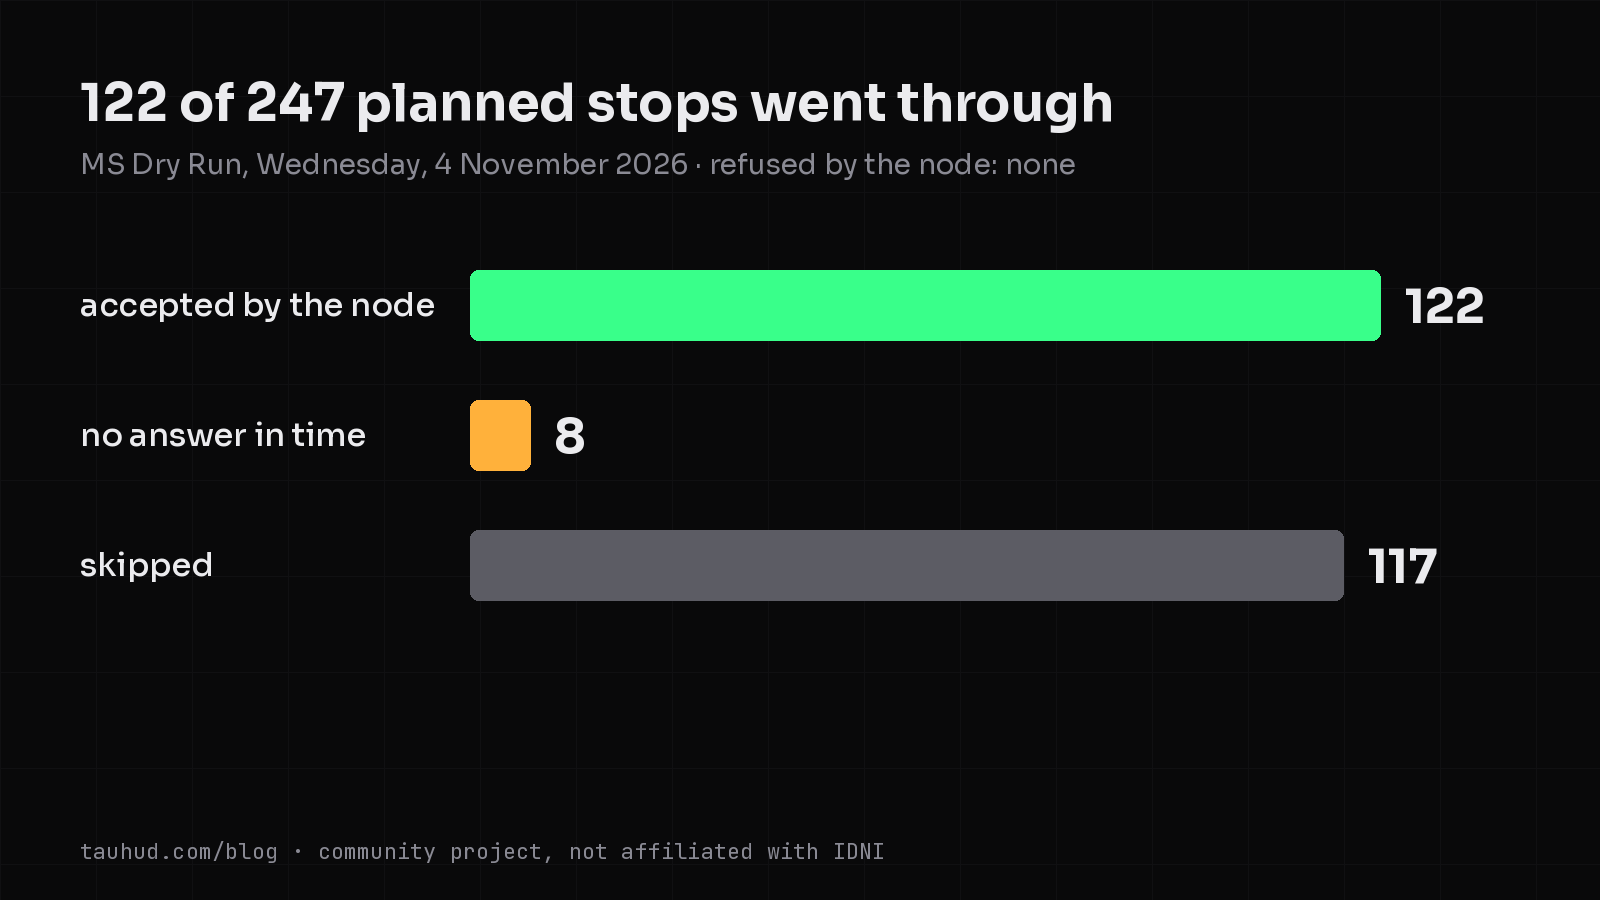
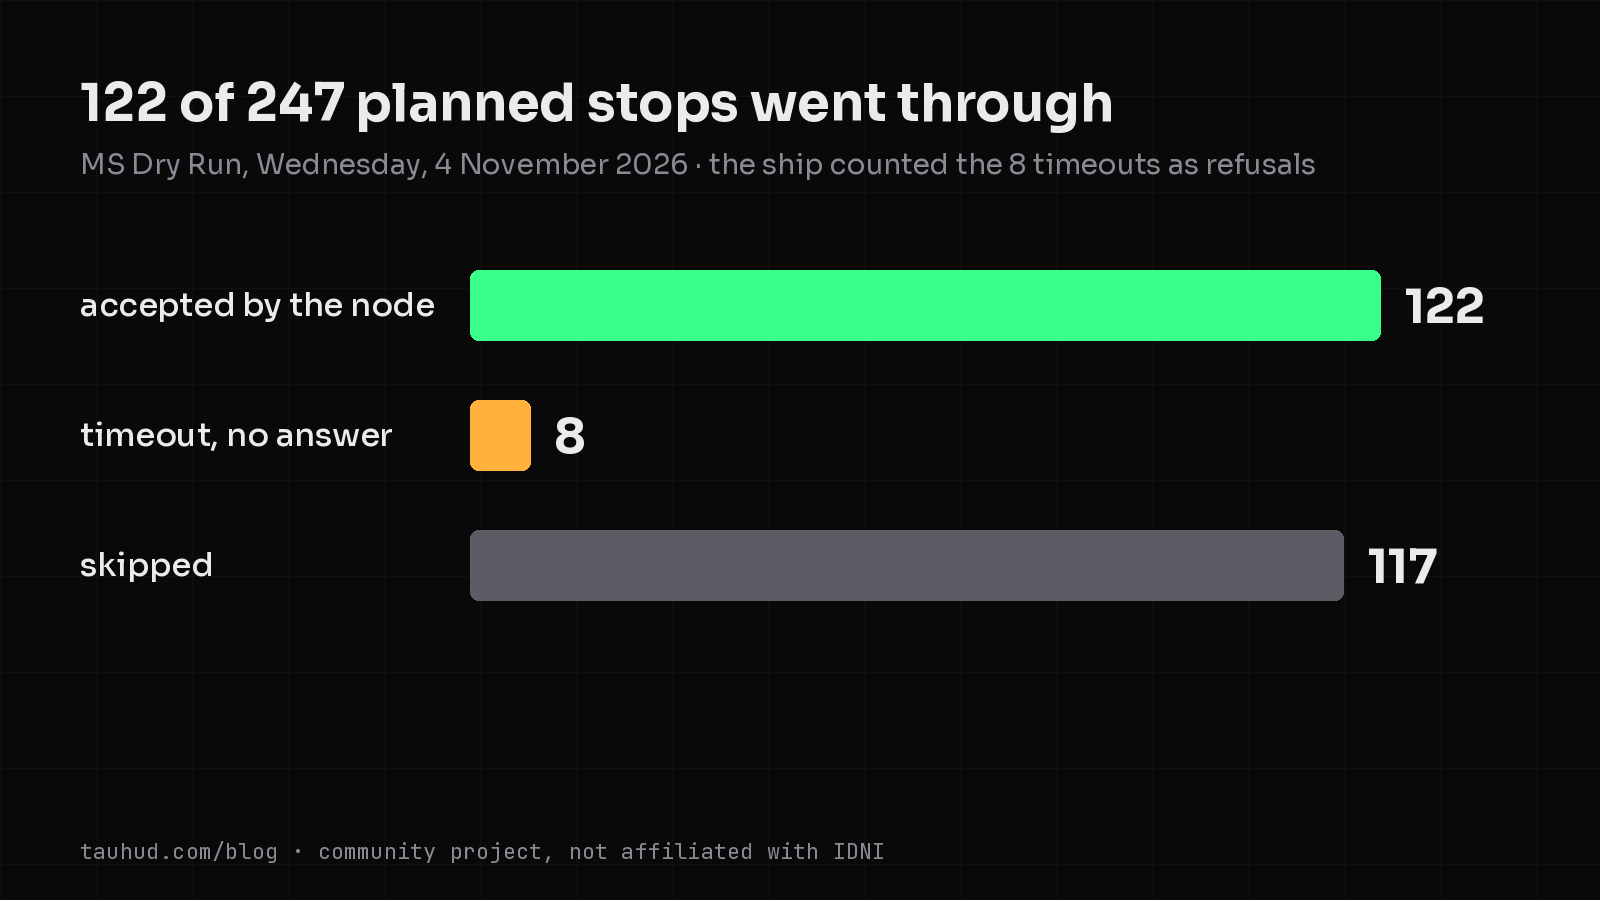
Blog: one story on the MS Dry Run's 8 timeouts
The picture said 0 refused while the article spoke of refusals. Now article, picture,
chart and announcement all say it the same way: 8 sends got no answer in time and the
ship counted them as refusals; the node itself refused none. The fourth tile shows the
5 of 5 bookings paid out. Labels that need three lines get a smaller type instead of
losing a word. Pictures are made anew once after up (PICS_VERSION 3).

Changed region(s): [[0.4375, 0.1556, 0.8125, 0.2178], [0.0312, 0.4667, 0.25, 0.4978]]

diff --git a/assets/i18n/ja/hud.js b/assets/i18n/ja/hud.js
@@ -2319,6 +2319,6 @@ TauI18n.add({ strings: {
   "Alerts: the simulation's consensus switches no longer get a Telegram and X post twice a day. One post explains the daily programme instead (11:20 and 17:20 German time, a 7-minute vote), so the channel stays about the real testnet.": "アラート：シミュレーションのコンセンサス切り替えは、1日2回 Telegram と X に投稿されなくなりました。代わりに1件の投稿で毎日の予定（ドイツ時間 11:20 と 17:20、7分間の投票）を説明し、チャンネルは本物のテストネットの話に絞ります。",
   "Alerts: the Telegram channel and X get fewer and more telling posts. “Testnet today” now leads with who sent: the wallets of the day by kind (IDNI’s test accounts, our own island bot and cruise passengers named as ours, players, newcomers, others), compared with the usual number, and one line on why it matters; X gets it only on an unusual day. The smaller site changes go out once a week, Friday 17:00 German time, five by name, Telegram only. The Key Crier reports only a day real players moved, with the campaign explanation on Monday alone. A closer look comes on Monday, Wednesday and Friday. Findings say why they matter and repeat at most every two days. After a restart nothing is posted late in a burst. The post after a cruise ship visit is the blog article’s, with the logbook’s numbers.": "アラート：Telegram チャンネルと X の投稿は少なく、中身のあるものになりました。「今日のテストネット」はまず誰が送ったかから始まります。その日のウォレットを種類別に（IDNI のテスト用アカウント、私たち自身の島のボットとクルーズ乗客は私たちのものと明記、プレイヤー、新規、その他）、いつもの数と比べ、なぜ重要かを一行で。X には普通でない日だけ届きます。サイトの小さな変更は週に一度、金曜ドイツ時間 17:00 に五件だけ名前を挙げて、Telegram のみ。Key Crier は本物のプレイヤーが動いた日だけ報告し、キャンペーンの説明は月曜だけ。「もう少し詳しく」は月・水・金に。発見の投稿はなぜ重要かを述べ、同じものは二日に一度まで。再起動後にまとめて遅れて投稿することはなくなりました。クルーズ船の寄港後の投稿はブログ記事のもので、航海日誌の数字つきです。",
   "Blog: every article now has a picture made from the island's own painting, with the ship and a card that says at a glance why it matters; it shows on top of the article, in the list, and in the link preview on Telegram, X and elsewhere (each article has its own share link). Charts drawn from the logbook numbers sit inside the text where they support it. The MS Dry Run article got three: where the 247 planned stops went, how often our node did not answer per hour, and the ship's pace against the 120 sends it may make every 10 minutes. The drafts our server writes after each ship get the same pictures by themselves. The page is laid out for reading now: one centred column of about 70 characters on every screen from phone to 3440 wide, type that grows with the screen, pictures a little wider than the text, a reading time and a thin progress line while you read, and the newest article large on the list.": "ブログ：すべての記事に、島そのものの絵から作った画像が付くようになりました。船と、なぜ大事かがひと目でわかるカードが入っています。記事の上部、一覧、そして Telegram や X などのリンクプレビューに表示されます（記事ごとに共有用リンクがあります）。ログブックの数字から描いたグラフを、本文の裏付けになる場所に入れています。MS Dry Run の記事には 3 枚：計画された 247 か所の立ち寄りの行方、私たちのノードが 1 時間に何回返事をしなかったか、そして 10 分あたり 120 件という上限に対する船のペース。各船のあとにサーバーが書く下書きにも、同じ画像が自動で付きます。ページは読みやすさを第一に組み直しました。スマートフォンから 3440 幅の画面まで、1 行約 70 文字の中央の段組み、画面に合わせて大きくなる文字、本文より少し広い画像、読了時間と読書中の細い進捗線、一覧では最新の記事を大きく表示します。",
-  "Blog: the title picture now joins the game and the data. On a White Rabbit Key article it is the island’s own painting with the ship, the card that says why it matters, the visit’s key numbers as tiles on the water (for the MS Dry Run: 34 of 90 minutes in port, 122 accepted, 8 without an answer in time, 0 refused) and Rico of Radio Coco looking on, painted as in the game. The numbers come from the logbook facts the article was written from; existing pictures are made anew once.": "ブログ：タイトル画像がゲームとデータをひとつにしました。ホワイトラビット・キーの記事では、島そのものの絵に船、なぜ大事かを示すカード、寄港の主な数字を水面のタイルで（MS Dry Run なら 90 分中 34 分の滞在、受理 122 件、時間内に返事なし 8 件、拒否 0 件）、そしてゲームと同じ絵の Radio Coco の Rico が見守ります。数字は記事の元になったログブックの事実から取り、既存の画像は一度作り直されます。",
+  "Blog: the title picture now joins the game and the data. On a White Rabbit Key article it is the island’s own painting with the ship, the card that says why it matters, the visit’s key numbers as tiles on the water (for the MS Dry Run: 34 of 90 minutes in port, 122 accepted, 8 timeouts that the ship counted as refusals, 5 of 5 bookings paid out) and Rico of Radio Coco looking on, painted as in the game. The numbers come from the logbook facts the article was written from; existing pictures are made anew once.": "ブログ：タイトル画像がゲームとデータをひとつにしました。ホワイトラビット・キーの記事では、島そのものの絵に船、なぜ大事かを示すカード、寄港の主な数字を水面のタイルで（MS Dry Run なら 90 分中 34 分の滞在、受理 122 件、船が拒否として数えたタイムアウト 8 件、予約 5 件すべて支払い済み）、そしてゲームと同じ絵の Radio Coco の Rico が見守ります。数字は記事の元になったログブックの事実から取り、既存の画像は一度作り直されます。",
   "News line: old things now leave by themselves. A headline goes 14 days after it came on, a new feature and a blog article as well, IDNI’s news after a week; a few standing pointers stay. New things come in by themselves: the newest blog article opens the line by its own headline, as the title story, and the line stands still for five seconds at the start so it can be read; the next cruise ship comes in from three days before it calls, in your own time. A watchtower on our server checks every half hour that something new is on the line and that IDNI’s news still comes in, and tells us privately when not.": "ニュースライン：古い項目は自動で消えるようになりました。見出しは載ってから 14 日で消え、新機能とブログ記事も同じ、IDNI のニュースは一週間で消えます。いくつかの常設の案内は残ります。新しいものは自動で加わります：最新のブログ記事が自分の見出しでトップ記事としてラインの先頭に立ち、ラインは最初の五秒間止まって読めるようにします。次のクルーズ船も（寄港の三日前から、あなたの時刻で）。サーバーの見張り塔が 30 分ごとに、ラインに新しいものがあるか、IDNI のニュースが届き続けているかを確かめ、届いていなければ私たちに非公開で知らせます。",
 } });

diff --git a/assets/i18n/zh/hud.js b/assets/i18n/zh/hud.js
@@ -2325,6 +2325,6 @@ TauI18n.add({ strings: {
   "Alerts: the simulation's consensus switches no longer get a Telegram and X post twice a day. One post explains the daily programme instead (11:20 and 17:20 German time, a 7-minute vote), so the channel stays about the real testnet.": "提醒：模拟链的共识切换不再每天两次在 Telegram 和 X 上发帖。取而代之的是一篇帖子介绍每天的日程（德国时间 11:20 和 17:20，投票 7 分钟），让频道专注于真正的测试网。",
   "Alerts: the Telegram channel and X get fewer and more telling posts. “Testnet today” now leads with who sent: the wallets of the day by kind (IDNI’s test accounts, our own island bot and cruise passengers named as ours, players, newcomers, others), compared with the usual number, and one line on why it matters; X gets it only on an unusual day. The smaller site changes go out once a week, Friday 17:00 German time, five by name, Telegram only. The Key Crier reports only a day real players moved, with the campaign explanation on Monday alone. A closer look comes on Monday, Wednesday and Friday. Findings say why they matter and repeat at most every two days. After a restart nothing is posted late in a burst. The post after a cruise ship visit is the blog article’s, with the logbook’s numbers.": "提醒：Telegram 频道和 X 的帖子更少、更有内容。“今日测试网”现在先说谁在发交易：当天的钱包按类别（IDNI 的测试账户、我们自己的岛屿机器人和游轮乘客并注明是我们的、玩家、新钱包、其他），与平常的数量比较，再用一句话说明为什么重要；X 只在不寻常的日子才收到。网站的小改动每周一次，周五德国时间 17:00，列出五条，仅在 Telegram。Key Crier 只报道有真实玩家行动的日子，竞选说明只在周一出现。“仔细看看”在周一、周三和周五发出。发现类帖子说明为什么重要，最多每两天重复一次。重启后不再一次补发一堆帖子。游轮访问后的帖子就是博客文章的那条，带航海日志的数字。",
   "Blog: every article now has a picture made from the island's own painting, with the ship and a card that says at a glance why it matters; it shows on top of the article, in the list, and in the link preview on Telegram, X and elsewhere (each article has its own share link). Charts drawn from the logbook numbers sit inside the text where they support it. The MS Dry Run article got three: where the 247 planned stops went, how often our node did not answer per hour, and the ship's pace against the 120 sends it may make every 10 minutes. The drafts our server writes after each ship get the same pictures by themselves. The page is laid out for reading now: one centred column of about 70 characters on every screen from phone to 3440 wide, type that grows with the screen, pictures a little wider than the text, a reading time and a thin progress line while you read, and the newest article large on the list.": "博客：每篇文章现在都有一张图片，用岛屿本身的画作制成，上面有游轮和一张一眼就能看出为什么重要的卡片；它出现在文章顶部、列表里，以及 Telegram、X 等处的链接预览中（每篇文章都有自己的分享链接）。根据日志数字绘制的图表放在正文中支持论述的地方。MS Dry Run 的文章有三张：计划的 247 个停靠去了哪里、我们的节点每小时有多少次没有回答，以及游轮的速度与每 10 分钟允许的 120 次发送的对比。服务器在每艘游轮之后写的草稿也会自动得到同样的图片。页面现在为阅读而排版：从手机到 3440 宽的屏幕，都是一栏约 70 个字符的居中正文，字号随屏幕变大，图片比正文略宽，有阅读时间和阅读时的细进度线，列表中最新的文章以大图显示。",
-  "Blog: the title picture now joins the game and the data. On a White Rabbit Key article it is the island’s own painting with the ship, the card that says why it matters, the visit’s key numbers as tiles on the water (for the MS Dry Run: 34 of 90 minutes in port, 122 accepted, 8 without an answer in time, 0 refused) and Rico of Radio Coco looking on, painted as in the game. The numbers come from the logbook facts the article was written from; existing pictures are made anew once.": "博客：标题图现在把游戏和数据放在一起。白兔礁的文章里，它是岛屿本身的画作，配上游轮、说明为什么重要的卡片、本次停靠的关键数字（MS Dry Run：港口停留 90 分钟中的 34 分钟、122 笔被接受、8 笔没有及时回答、0 笔被拒绝），还有 Radio Coco 的 Rico 在一旁看着，画法与游戏中相同。数字来自文章所依据的日志事实；已有的图片会重新生成一次。",
+  "Blog: the title picture now joins the game and the data. On a White Rabbit Key article it is the island’s own painting with the ship, the card that says why it matters, the visit’s key numbers as tiles on the water (for the MS Dry Run: 34 of 90 minutes in port, 122 accepted, 8 timeouts that the ship counted as refusals, 5 of 5 bookings paid out) and Rico of Radio Coco looking on, painted as in the game. The numbers come from the logbook facts the article was written from; existing pictures are made anew once.": "博客：标题图现在把游戏和数据放在一起。白兔礁的文章里，它是岛屿本身的画作，配上游轮、说明为什么重要的卡片、本次停靠的关键数字（MS Dry Run：港口停留 90 分钟中的 34 分钟、122 笔被接受、8 次超时被游轮算成了拒绝、5 笔预订全部付出），还有 Radio Coco 的 Rico 在一旁看着，画法与游戏中相同。数字来自文章所依据的日志事实；已有的图片会重新生成一次。",
   "News line: old things now leave by themselves. A headline goes 14 days after it came on, a new feature and a blog article as well, IDNI’s news after a week; a few standing pointers stay. New things come in by themselves: the newest blog article opens the line by its own headline, as the title story, and the line stands still for five seconds at the start so it can be read; the next cruise ship comes in from three days before it calls, in your own time. A watchtower on our server checks every half hour that something new is on the line and that IDNI’s news still comes in, and tells us privately when not.": "新闻滚动条：旧内容现在会自动下线。一条标题上线 14 天后离开，新功能和博客文章也一样，IDNI 的消息一周后离开；少数常驻的指引保留。新内容会自动加入：最新的博客文章以它自己的标题作为头条打开滚动条，滚动条开始时静止五秒，方便读完；下一艘游轮从靠岛前三天起按你的当地时间显示。我们服务器上的一座瞭望塔每半小时检查一次滚动条上是否有新内容、IDNI 的消息是否还在进来，如果没有，就私下通知我们。",
 } });

diff --git a/infra/alerts/blog_pics.py b/infra/alerts/blog_pics.py
@@ -138,8 +138,11 @@ def hero(art: str, ships: str, card: list[str], ship: str, out: str, stats: list
             od.rounded_rectangle([x, y, x + tw, y + th], radius=16, fill=(8, 12, 24, 228), outline=(57, 255, 138, 110), width=2)
             fn = font(54 if len(str(num)) <= 5 else 40, 700)
             od.text((x + 20, y + 18), str(num), font=fn, fill=(57, 255, 138, 255) if i == 0 else (242, 242, 242, 255))
-            for j, part in enumerate(wrap(od, str(label), font(21, 500), tw - 36)[:2]):
-                od.text((x + 20, y + 88 + j * 26), part, font=font(21, 500), fill=(190, 196, 204, 255))
+            size, lines = 21, wrap(od, str(label), font(21, 500), tw - 36)
+            if len(lines) > 2:   # a longer label gets a smaller type rather than losing its last word
+                size, lines = 18, wrap(od, str(label), font(18, 500), tw - 36)
+            for j, part in enumerate(lines[:2 if size == 21 else 3]):
+                od.text((x + 20, y + (88 if size == 21 else 84) + j * (size + 5)), part, font=font(size, 500), fill=(190, 196, 204, 255))
         pic = Image.alpha_composite(pic, over)
     pic.convert("RGB").save(out, quality=90)
     return out
@@ -176,14 +179,17 @@ def visit_stats(facts: dict) -> list[tuple[str, str]]:
     acc = facts.get("accepted in all")
     if acc is not None:
         out.append((str(acc), "accepted by the node"))
-    una = (facts.get("sends our node did not answer in time (not refusals)") or 0) + \
-        (facts.get("refusals logged without any answer from the node (a timeout, counted as refusal by the old rule)") or 0)
+    old = facts.get("refusals logged without any answer from the node (a timeout, counted as refusal by the old rule)") or 0
+    una = (facts.get("sends our node did not answer in time (not refusals)") or 0) + old
     if una:
-        out.append((str(una), "no answer in time"))
-    ref = (facts.get("refused in all") or 0) - (facts.get("refusals logged without any answer from the node (a timeout, counted as refusal by the old rule)") or 0)
-    out.append((str(max(0, ref)), "refused by the node"))
-    if facts.get("bookings checked after the visit") and len(out) < 4:
-        out.append((str(facts["bookings checked after the visit"] - (facts.get("bookings the chain had not paid out") or 0)), "bookings paid out"))
+        # one story with the article: these were timeouts; say so when the ship's brake counted them as refusals
+        out.append((str(una), "timeouts, counted as refusals" if old else "no answer in time"))
+    ref = (facts.get("refused in all") or 0) - old
+    if ref > 0:
+        out.append((str(ref), "refused by the node"))
+    checked = facts.get("bookings checked after the visit")
+    if checked:
+        out.append((f"{checked - (facts.get('bookings the chain had not paid out') or 0)}/{checked}", "bookings paid out by the chain"))
     return out[:4]
 
 
@@ -198,11 +204,11 @@ def visit_charts(facts: dict, base: str) -> list[tuple[str, dict]]:
     skip = facts.get("stops skipped") or 0
     plan = (facts.get("landed") or {}).get("transactions planned") if isinstance(facts.get("landed"), dict) else None
     if acc or skip:
-        parts = [("accepted by the node", acc, OK), ("no answer in time", una + old, AMBER),
+        parts = [("accepted by the node", acc, OK), ("timeout, no answer", una + old, AMBER),
                  ("refused by the node", ref - old, (255, 77, 109)), ("skipped", skip, (92, 92, 100))]
         t = f"{acc} of {plan} planned stops went through" if plan else f"{acc} stops went through"
-        sub = "refused by the node: none" if ref - old <= 0 else f"refused by the node: {ref - old}"
-        out.append((base + "-stops.png", split([p for p in parts if p[1] > 0], t, f"{facts.get('ship') or 'The ship'}, {facts.get('date', '')} · {sub}"),
+        out.append((base + "-stops.png", split([p for p in parts if p[1] > 0], t, f"{facts.get('ship') or 'The ship'}, {facts.get('date', '')}"
+                                                         + (f" · the ship counted the {old} timeouts as refusals" if old else "")),
                     {"en": "Where the planned stops went, from the ship's logbook.", "zh": "计划的停靠去了哪里，来自游轮日志。",
                      "ja": "計画された立ち寄りの行方（船のログブックより）。"}))
     per = facts.get("sends per 10 minutes") or []

diff --git a/infra/alerts/blog.py b/infra/alerts/blog.py
@@ -42,7 +42,7 @@ SHIPS = os.environ.get("BLOG_SHIPS", "/ships")  # the painted ships (rabbit/art/
 IMG = os.path.join(PUBLIC, "img")               # hero pictures and charts, node.tauhud.com/blog/img/
 SHARE = os.path.join(PUBLIC, "a")               # one small page per article for link previews, node.tauhud.com/blog/a/<id>.html
 EVERY = 600
-PICS_VERSION = 2   # raise when the hero picture changes: every article's picture is made anew once (2: numbers and Rico)
+PICS_VERSION = 3   # raise when the hero picture changes: every article's picture is made anew once (2: numbers and Rico, 3: one story on refusals)
 CHECK_WAIT = 3 * 3600      # a visit whose bookings were never checked is drafted this long after it ended
 RETRY_AFTER = 2 * 3600
 KINDS = ("pay", "bill", "book", "cancel")
@@ -472,16 +472,23 @@ def numbers_of(f: dict) -> list[str]:
     out = []
     if f.get("simulated passengers"):
         out.append(f"{f['simulated passengers']} simulated passengers, every stop a real transaction")
-    acc, ref = f.get("accepted in all"), f.get("refused in all")
+    # one story everywhere: a send the node never answered is a timeout, even where the old rule logged it as a refusal
+    old = f.get("refusals logged without any answer from the node (a timeout, counted as refusal by the old rule)") or 0
+    acc, ref = f.get("accepted in all"), (f.get("refused in all") or 0) - old
     if acc is not None:
-        out.append(f"{acc} transactions accepted by the node" + (f", {ref} refused" if ref else ", none refused"))
+        out.append(f"{acc} transactions accepted by the node" + (f", {ref} refused" if ref > 0 else ", none refused"))
+    if old:
+        out.append(f"{old} got no answer from our node in time, and the ship counted them as refusals")
     una = f.get("sends our node did not answer in time (not refusals)")
     if una:
         out.append(f"{una} got no answer from our node in time" + (f", {f['of those, reached the chain after all']} of them reached the chain all the same"
                                                                    if f.get("of those, reached the chain after all") else ""))
     left = f.get("left early")
     if isinstance(left, dict) and left.get("minutes in port") is not None:
-        out.append(f"the ship left after {left['minutes in port']} minutes: {left.get('why') or 'no reason logged'}")
+        why = left.get("why") or "no reason logged"
+        if old and "refus" in why and ref <= 0:
+            why = "its brake took the missing answers for refusals"
+        out.append(f"the ship left after {left['minutes in port']} minutes: {why}")
     elif f.get("landed") is False:
         out.append("the ship did not land" + (f": {f['why not landed']}" if f.get("why not landed") else ""))
     if f.get("incidents"):

diff --git a/infra/alerts/test_blog.py b/infra/alerts/test_blog.py
@@ -109,7 +109,7 @@ d = json.load(open(os.path.join(TMP, "blog", "drafts", st["drafts"][did] + ".jso
 check(d["image"].endswith(f"/blog/img/{did}-hero.jpg") and os.path.exists(os.path.join(TMP, "blog", "img", f"{did}-hero.jpg")), "the draft has its hero picture")
 check(len(d["figures"]) == 2 and all(os.path.exists(os.path.join(TMP, "blog", "img", os.path.basename(f["src"]))) for f in d["figures"]), "and two charts of the visit")
 import blog_pics  # noqa: E402
-check(blog_pics.visit_stats(f) == [("34/90", "minutes in port"), ("122", "accepted by the node"), ("8", "no answer in time"), ("0", "refused by the node")],
+check(blog_pics.visit_stats(f) == [("34/90", "minutes in port"), ("122", "accepted by the node"), ("8", "timeouts, counted as refusals")],
       "the numbers on the picture come from the facts")
 check(d["card"][0] == "The MS Dry Run left after 34 minutes" and d["card"][-1].startswith("Tau HUD blog"), "the card on the picture")
 share = open(os.path.join(TMP, "blog", "a", did + ".html")).read()
